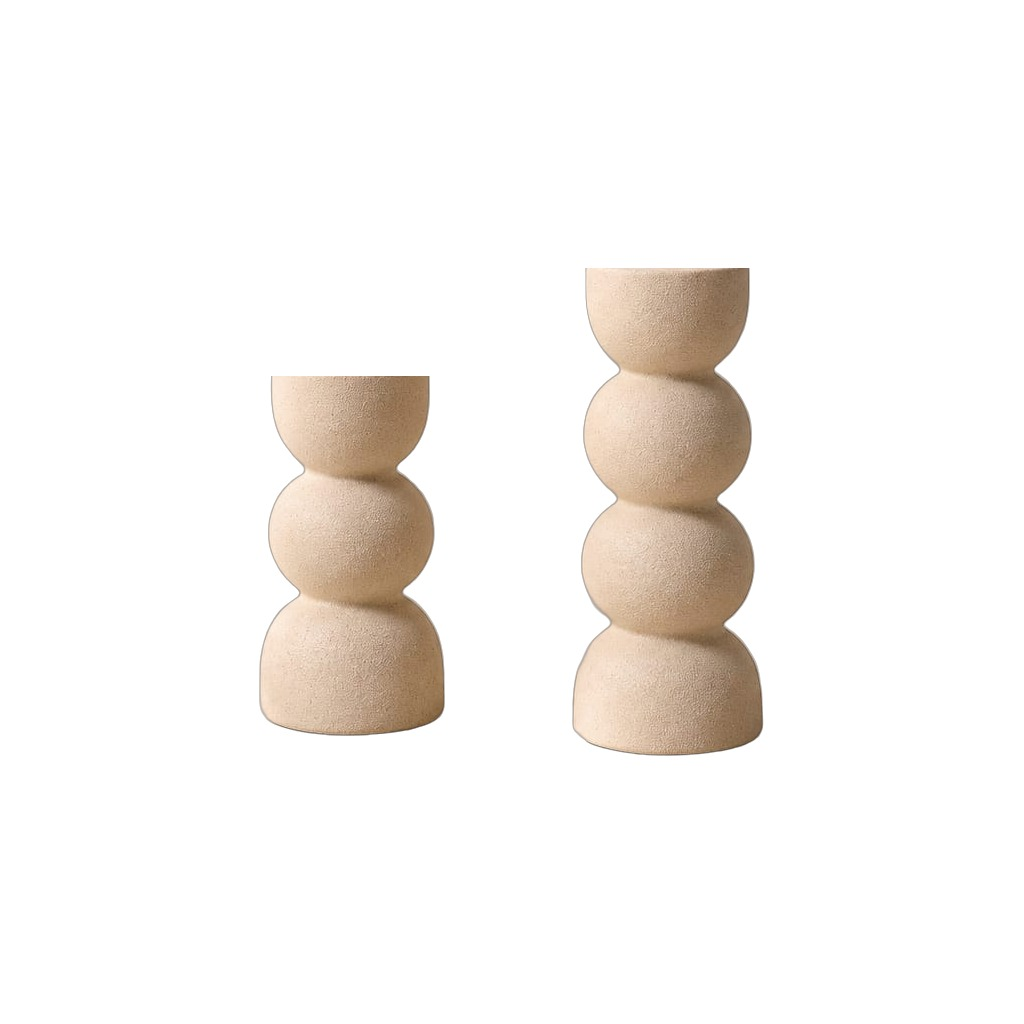
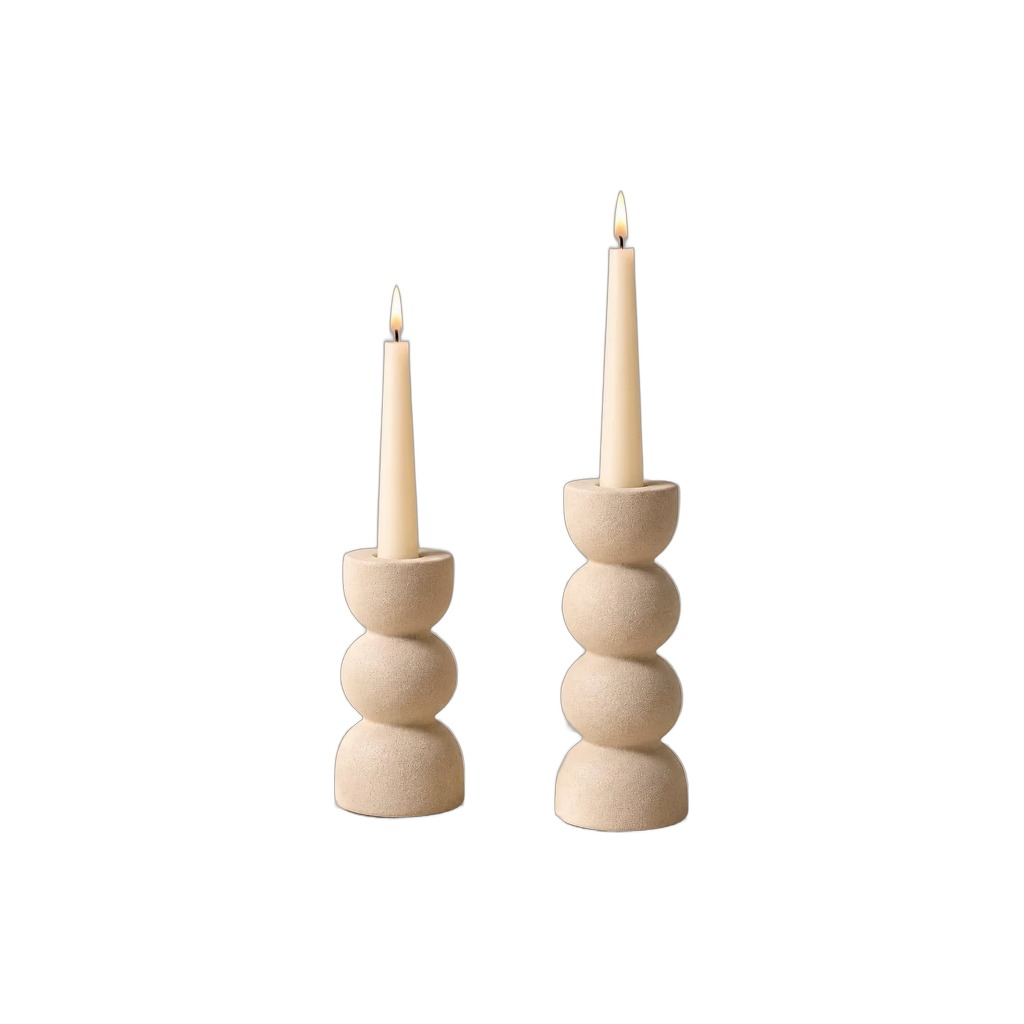
p117 AI reference with its taper candles
Claude-Session: https://claude.ai/code/session_01NDMxpGu9JYTL5ahwxySGAv

Changed region(s): [[0.5312, 0.1875, 0.75, 0.8125], [0.25, 0.2812, 0.4688, 0.8125]]

diff --git a/index.html b/index.html
@@ -1093,7 +1093,7 @@ const ROLES={"p34":{role:"lean"},"p35":{role:"lean"},"p36":{role:"lean"},"p36a":
 const PARTS={"p2":[25,19.4],"p3":[25.1,20],"p91":[35,31,27],"p117":[17.5,13]};
 // Real product sizes for the AI photo (the layout height alone is not enough for flat or round pieces).
 // Add one line for every new product whose shape is wide/flat/round.
-const CANDLES={"p8":"a lit white tea-light candle in each small ceramic pot","p2":"a lit white tea-light candle on top of each holder","p3":"a tall white taper candle in each holder","p32":"a lit white tea-light candle inside the glass globe","p40":"a lit white tea-light candle inside the glass lantern","p91":"a white pillar candle glowing inside each amber glass cup","p117":"a tall cream taper candle in each holder"};
+const CANDLES={"p8":"a lit white tea-light candle in each small ceramic pot","p2":"a lit white tea-light candle on top of each holder","p3":"a tall lit white taper candle in each holder","p32":"a lit white tea-light candle inside the glass globe","p40":"a lit white tea-light candle inside the glass lantern","p91":"a white pillar candle glowing inside each amber glass cup","p117":"a tall lit cream taper candle in each holder"};
 const FLOWERS={"p5":"a small bunch of dried beige-cream gypsophila","p114":"a single long-stemmed peach rose","p6":"a bunch of small white gypsophila (baby's breath)","p20":"a bunch of dried white gypsophila","p21":"a bunch of dried white gypsophila","p23":"a few stems of dried lilac flowers","p24":"a bunch of dried lilac-white gypsophila","p41":"three white tulips with green stems and leaves","p42":"three pale-lilac tulips with green stems and leaves","p43":"a full dome of white gypsophila","p44":"a full dome of white gypsophila","p89":"a bunch of white gypsophila (baby's breath)","p90":"a few stems of dried royal-blue flowers","p100":"a full bunch of white gypsophila","p101":"a full bunch of white gypsophila"};
 const DIMS={"p6":"small lilac speckled ceramic spiral-twist bud vase, the vase itself 6 cm wide x 9 cm tall (a small item)","p89":"small round ribbed cream ceramic ball vase, the vase itself 11 cm wide x 9 cm tall (a small item)","p82":"flat rectangular-oval Nordic ceramic serving tray, 35 cm long x 18 cm wide, about 3 cm high","p83":"round Nordic ceramic serving plate, 27 cm diameter, about 5.5 cm high","p72":"pair of low ribbed ceramic candlestick holders for taper candles, each about 7.5 cm wide x 6.5 cm tall (small, low pieces)","p2":"pair of white ceramic tea-light holders: tall piece 25 cm, short piece 19.4 cm, each with an 8 cm base","p130":"slim upright cream gift box with a window holding two smooth cream taper candles, box about 8 cm wide x 25.5 cm tall x 2.5 cm deep","p129":"slim upright gift box with a window holding two twisted powder-pink taper candles, box about 8 cm wide x 25.5 cm tall x 2.5 cm deep","p45":"Greek-style beach towel folded and tied with twine and an evil-eye charm, folded bundle 20 cm wide x 33 cm tall, about 5 cm thick","p63":"chef knife in its slim gift box, 36 cm long x 6 cm wide x 2.5 cm thick — long and flat, lies flat","p54":"acacia-wood salt and pepper shaker pair standing on a small acacia tray, whole set 15.7 cm wide x 8.8 cm deep x 9 cm tall (a small item)","p55":"pair of acacia-wood salad servers (spoon + fork) tied with jute twine, 26 cm long, about 7 cm wide","p114":"7.5 cm wide x 21 cm tall","p115":"flat pebble-shaped tray 24 cm long x 15 cm wide (10.5 cm at the narrow end), about 2 cm high","p116":"flat pebble-shaped tray 24 cm long x 15 cm wide (10.5 cm at the narrow end), about 2 cm high","p118":"round wavy bowl 25.5 cm diameter (25.5 x 25.5 cm), low and wide","p36":"acacia wood cutting board 34 cm x 24 cm, 2 cm thick, with juice groove","p122":"set of two soft padded cream fabric pieces: an oven mitt 30 cm tall x 15 cm wide and a pot holder 23 cm tall x 18 cm wide, each about 2 cm thick with a hanging loop","p123":"round white ceramic salad bowl with two cobalt-blue bands inside and a gently wavy rim, 20 cm diameter, 7 cm high","p124":"flat oval ceramic serving platter 30 cm long x 15 cm wide, about 3 cm high, white with fine cobalt-blue radiating lines and a blue centre, thin brown rim","p125":"round bamboo-fibre salad bowl, matte white outside and spun orange-bamboo inside, 23 cm diameter, 10 cm high","p126":"folded waffle-weave tablecloth (170 x 330 cm when open) gift-wrapped as a flat square package about 25 x 25 cm and 5 cm thick, white, with cream ribbon bow and NOYA MAISON tag","p127":"folded waffle-weave tablecloth (170 x 330 cm when open) gift-wrapped as a flat square package about 25 x 25 cm and 5 cm thick, cream, with cream ribbon bow and NOYA MAISON tag","p84":"folded white lace tablecloth (150 x 300 cm when open) gift-wrapped as a flat square package about 25 x 25 cm and 5 cm thick, with cream ribbon bow and NOYA MAISON tag","p128":"small evil-eye amulet: flat cobalt-blue resin disc 5 cm diameter with white mandala pattern and eye, silver clasp and a short blue cord loop, about 10 cm long overall","p119":"serving stand 31 cm long x 11 cm wide with three 220 ml clear glass jars with dark wooden lids and round wooden knobs, about 11 cm tall","p117":"two holders: 5.5 cm diameter, 13 cm and 17.5 cm tall"};
 const RIDE=new Set([]);
